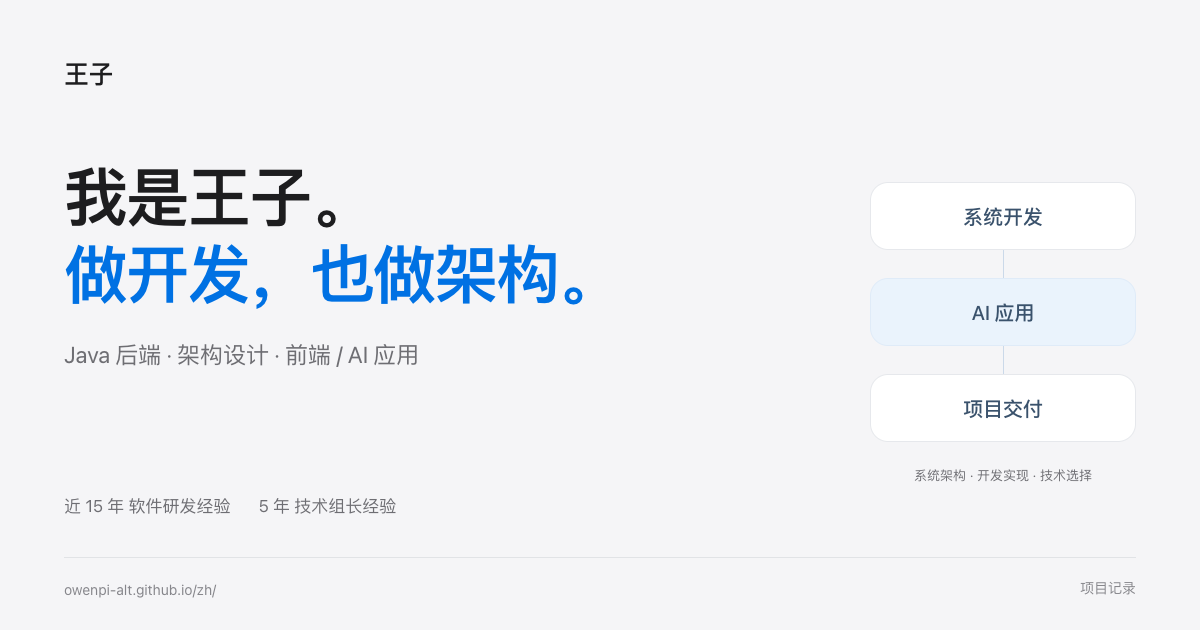
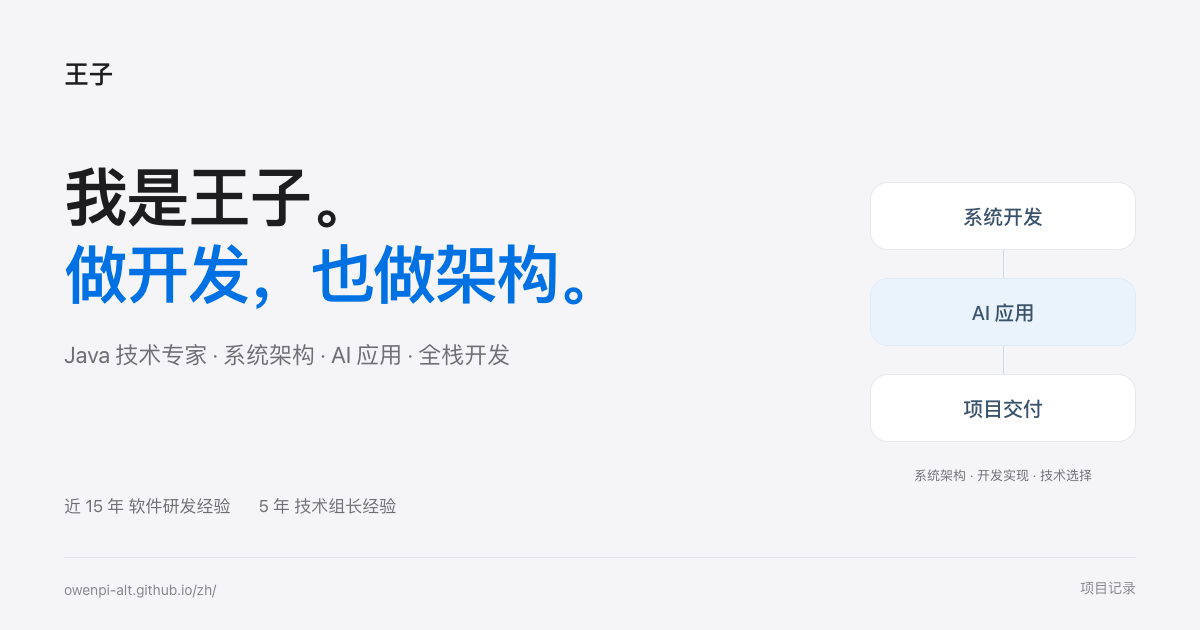
Strengthen recruiter-facing summary and improve crawlable portfolio navigation

Changed region(s): [[0.0925, 0.5429, 0.4317, 0.6032]]

diff --git a/en/index.html b/en/index.html
@@ -30,7 +30,7 @@
   <meta property="og:site_name" content="Wang Zi — Engineering Portfolio">
   <meta property="og:locale" content="en_US">
   <meta property="og:locale:alternate" content="zh_CN">
-  <meta property="og:image" content="https://owenpi-alt.github.io/assets/og-en-card.png?v=3dd26888b4e3">
+  <meta property="og:image" content="https://owenpi-alt.github.io/assets/og-en-card.png?v=a734cfd51e51">
   <meta property="og:image:type" content="image/png">
   <meta property="og:image:width" content="1200">
   <meta property="og:image:height" content="630">
@@ -38,10 +38,10 @@
   <meta name="twitter:card" content="summary_large_image">
   <meta name="twitter:title" content="Wang Zi | Senior Java Backend, Architecture &amp; AI">
   <meta name="twitter:description" content="Wang Zi has nearly 15 years in software and five years leading teams. His work includes microservice modernization, messaging and payment systems, JVM, SQL, Redis, Kafka and AI customer support.">
-  <meta name="twitter:image" content="https://owenpi-alt.github.io/assets/og-en-card.png?v=3dd26888b4e3">
+  <meta name="twitter:image" content="https://owenpi-alt.github.io/assets/og-en-card.png?v=a734cfd51e51">
   <meta name="twitter:image:alt" content="Wang Zi — Engineering Portfolio">
   <script type="application/ld+json">{"@context":"https://schema.org","@graph":[{"@type":"WebSite","@id":"https://owenpi-alt.github.io/#website","url":"https://owenpi-alt.github.io/","name":"Wang Zi — Engineering Portfolio","inLanguage":["zh-CN","en"],"publisher":{"@id":"https://owenpi-alt.github.io/#person"}},{"@type":"Person","@id":"https://owenpi-alt.github.io/#person","name":"Wang Zi","alternateName":"王子","url":"https://owenpi-alt.github.io/en/","email":"chuangzaoxingfuvip@gmail.com","sameAs":["https://github.com/OwenPi-alt"],"jobTitle":"Java Technical Expert & Full-Stack Developer","knowsAbout":["Java","System architecture","Microservices","Full-stack development","AI applications","RAG","AIGC workflows","Quantitative research tools"]},{"@type":"WebPage","@id":"https://owenpi-alt.github.io/en/#webpage","url":"https://owenpi-alt.github.io/en/","name":"Wang Zi | Senior Java Backend, Architecture & AI","description":"Wang Zi has nearly 15 years in software and five years leading teams. His work includes microservice modernization, messaging and payment systems, JVM, SQL, Redis, Kafka and AI customer support.","inLanguage":"en","isPartOf":{"@id":"https://owenpi-alt.github.io/#website"},"mainEntity":{"@id":"https://owenpi-alt.github.io/#person"}}]}</script>
-  <link rel="stylesheet" href="../workbench.css?v=973fbaa48c6c">
+  <link rel="stylesheet" href="../workbench.css?v=79ab063f2feb">
 </head>
 <body>
   <svg class="icon-library" xmlns="http://www.w3.org/2000/svg" aria-hidden="true"><defs>
@@ -66,10 +66,10 @@
     <section class="hero section-shell" id="home" aria-labelledby="hero-title">
       <div class="hero-copy">
         <p class="eyebrow"><span class="status-dot"></span> SOFTWARE ARCHITECTURE · FULL-STACK · AI</p>
-        <p class="intro"><strong>Java backend · Architecture</strong><span class="intro-line"></span><span class="intro-role">Frontend / AI applications</span></p>
+        <p class="intro"><strong>Java technical expert · Architecture · AI applications</strong><span class="intro-line"></span><span class="intro-role">Full-stack development</span></p>
         <h1 id="hero-title">I'm Wang Zi.<br><span>I build software and design systems.</span></h1>
         <p class="hero-description">I build Java backend systems, from architecture to core implementation. My work includes telemarketing modernization, messaging and payments, alongside contributions to AI customer support and business queries.</p><div class="hero-proofline"><span><strong>Nearly 15</strong><small>years in software</small></span><span><strong>5 years</strong><small>as a technical team lead</small></span><span><strong>About 8</strong><small>people on the team I led</small></span></div>
-        <div class="hero-actions"><a class="button button-primary" href="mailto:chuangzaoxingfuvip@gmail.com">Let's talk <svg class="icon"><use href="#i-arrow"/></svg></a><a class="button button-outline" href="#projects">Explore the projects <svg class="icon"><use href="#i-external"/></svg></a></div>
+        <div class="hero-actions"><a class="button button-primary" href="mailto:chuangzaoxingfuvip@gmail.com">Let's talk <svg class="icon"><use href="#i-arrow"/></svg></a><a class="button button-outline" href="#projects">Explore the projects <svg class="icon"><use href="#i-external"/></svg></a><a class="button button-outline" href="./resume.html" target="_blank" rel="noopener">View résumé ↗</a></div>
         <div class="hero-meta"><span><svg viewBox="0 0 16 16" aria-hidden="true"><path d="M13 6c0 4-5 8-5 8S3 10 3 6a5 5 0 0 1 10 0Z"/><circle cx="8" cy="6" r="1.5"/></svg>Shanghai · Remote collaboration</span><span class="meta-separator">/</span><span>Project development · Technical advice · Phased delivery</span></div>
       </div>
       <aside class="case-preview" aria-label="Explore project flows">

diff --git a/zh/index.html b/zh/index.html
@@ -28,7 +28,7 @@
   <meta property="og:site_name" content="王子的技术作品集">
   <meta property="og:locale" content="zh_CN">
   <meta property="og:locale:alternate" content="en_US">
-  <meta property="og:image" content="https://owenpi-alt.github.io/assets/og-card.png?v=39079f2a544d">
+  <meta property="og:image" content="https://owenpi-alt.github.io/assets/og-card.png?v=eed51bbacd40">
   <meta property="og:image:type" content="image/png">
   <meta property="og:image:width" content="1200">
   <meta property="og:image:height" content="630">
@@ -36,11 +36,11 @@
   <meta name="twitter:card" content="summary_large_image">
   <meta name="twitter:title" content="王子｜资深 Java 后端 · 系统架构 · AI 应用">
   <meta name="twitter:description" content="王子，近 15 年软件研发经验，5 年技术组长经验。主导微服务架构改造，负责营销触达与订单支付系统开发，实践 JVM、SQL、Redis、Kafka 与 AI 客服应用。">
-  <meta name="twitter:image" content="https://owenpi-alt.github.io/assets/og-card.png?v=39079f2a544d">
+  <meta name="twitter:image" content="https://owenpi-alt.github.io/assets/og-card.png?v=eed51bbacd40">
   <meta name="twitter:image:alt" content="王子的技术作品集">
   <script type="application/ld+json">{"@context":"https://schema.org","@graph":[{"@type":"WebSite","@id":"https://owenpi-alt.github.io/#website","url":"https://owenpi-alt.github.io/","name":"王子的技术作品集","inLanguage":["zh-CN","en"],"publisher":{"@id":"https://owenpi-alt.github.io/#person"}},{"@type":"Person","@id":"https://owenpi-alt.github.io/#person","name":"王子","alternateName":"Wang Zi","url":"https://owenpi-alt.github.io/zh/","email":"chuangzaoxingfuvip@gmail.com","sameAs":["https://github.com/OwenPi-alt"],"jobTitle":"Java 技术专家与全栈开发者","knowsAbout":["Java","系统架构","微服务","全栈开发","AI 应用","RAG","AIGC 工作流","量化研究工具"]},{"@type":"WebPage","@id":"https://owenpi-alt.github.io/zh/#webpage","url":"https://owenpi-alt.github.io/zh/","name":"王子｜资深 Java 后端 · 系统架构 · AI 应用","description":"王子，近 15 年软件研发经验，5 年技术组长经验。主导微服务架构改造，负责营销触达与订单支付系统开发，实践 JVM、SQL、Redis、Kafka 与 AI 客服应用。","inLanguage":"zh-CN","isPartOf":{"@id":"https://owenpi-alt.github.io/#website"},"mainEntity":{"@id":"https://owenpi-alt.github.io/#person"}}]}</script>
   <link rel="stylesheet" href="../bilingual.css?v=280c2246b661">
-  <link rel="stylesheet" href="../workbench.css?v=973fbaa48c6c">
+  <link rel="stylesheet" href="../workbench.css?v=79ab063f2feb">
 </head>
 <body>
   <svg class="icon-library" xmlns="http://www.w3.org/2000/svg" aria-hidden="true"><defs>
@@ -65,10 +65,10 @@
     <section class="hero section-shell" id="home" aria-labelledby="hero-title">
       <div class="hero-copy">
         <p class="eyebrow"><span class="status-dot"></span> SOFTWARE ARCHITECTURE · FULL-STACK · AI</p>
-        <p class="intro"><strong>Java 后端 · 架构设计</strong><span class="intro-line"></span><span class="intro-role">前端 / AI 应用</span></p>
+        <p class="intro"><strong>Java 技术专家 · 系统架构 · AI 应用</strong><span class="intro-line"></span><span class="intro-role">全栈开发</span></p>
         <h1 id="hero-title">我是王子。<br><span>做开发，也做架构。</span></h1>
         <p class="hero-description">专注 Java 后端与系统架构，负责电销系统改造、<br>营销触达和订单支付系统开发，<br>也参与 AI 客服与业务查询应用。</p><div class="hero-proofline"><span><strong>近 15 年</strong><small>软件研发经验</small></span><span><strong>5 年</strong><small>技术组长经验</small></span><span><strong>约 8 人</strong><small>曾带领的开发团队</small></span></div>
-        <div class="hero-actions"><a class="button button-primary" href="mailto:chuangzaoxingfuvip@gmail.com">聊聊合作 <svg class="icon"><use href="#i-arrow"/></svg></a><a class="button button-outline" href="#projects">看看做过的项目 <svg class="icon"><use href="#i-external"/></svg></a></div>
+        <div class="hero-actions"><a class="button button-primary" href="mailto:chuangzaoxingfuvip@gmail.com">聊聊合作 <svg class="icon"><use href="#i-arrow"/></svg></a><a class="button button-outline" href="#projects">看看做过的项目 <svg class="icon"><use href="#i-external"/></svg></a><a class="button button-outline" href="../resume.html" target="_blank" rel="noopener">查看简历 ↗</a></div>
         <div class="hero-meta"><span><svg viewBox="0 0 16 16" aria-hidden="true"><path d="M13 6c0 4-5 8-5 8S3 10 3 6a5 5 0 0 1 10 0Z"/><circle cx="8" cy="6" r="1.5"/></svg>上海 · 远程协作</span><span class="meta-separator">/</span><span>项目开发 · 技术顾问 · 阶段交付</span></div>
       </div>
       <aside class="case-preview" aria-label="查看项目流程">

diff --git a/index.html b/index.html
@@ -28,7 +28,7 @@
   <meta property="og:site_name" content="王子的技术作品集">
   <meta property="og:locale" content="zh_CN">
   <meta property="og:locale:alternate" content="en_US">
-  <meta property="og:image" content="https://owenpi-alt.github.io/assets/og-card.png?v=39079f2a544d">
+  <meta property="og:image" content="https://owenpi-alt.github.io/assets/og-card.png?v=eed51bbacd40">
   <meta property="og:image:type" content="image/png">
   <meta property="og:image:width" content="1200">
   <meta property="og:image:height" content="630">
@@ -36,11 +36,11 @@
   <meta name="twitter:card" content="summary_large_image">
   <meta name="twitter:title" content="王子｜资深 Java 后端 · 系统架构 · AI 应用">
   <meta name="twitter:description" content="王子，近 15 年软件研发经验，5 年技术组长经验。主导微服务架构改造，负责营销触达与订单支付系统开发，实践 JVM、SQL、Redis、Kafka 与 AI 客服应用。">
-  <meta name="twitter:image" content="https://owenpi-alt.github.io/assets/og-card.png?v=39079f2a544d">
+  <meta name="twitter:image" content="https://owenpi-alt.github.io/assets/og-card.png?v=eed51bbacd40">
   <meta name="twitter:image:alt" content="王子的技术作品集">
   <script type="application/ld+json">{"@context":"https://schema.org","@graph":[{"@type":"WebSite","@id":"https://owenpi-alt.github.io/#website","url":"https://owenpi-alt.github.io/","name":"王子的技术作品集","inLanguage":["zh-CN","en"],"publisher":{"@id":"https://owenpi-alt.github.io/#person"}},{"@type":"Person","@id":"https://owenpi-alt.github.io/#person","name":"王子","alternateName":"Wang Zi","url":"https://owenpi-alt.github.io/zh/","email":"chuangzaoxingfuvip@gmail.com","sameAs":["https://github.com/OwenPi-alt"],"jobTitle":"Java 技术专家与全栈开发者","knowsAbout":["Java","系统架构","微服务","全栈开发","AI 应用","RAG","AIGC 工作流","量化研究工具"]},{"@type":"WebPage","@id":"https://owenpi-alt.github.io/zh/#webpage","url":"https://owenpi-alt.github.io/zh/","name":"王子｜资深 Java 后端 · 系统架构 · AI 应用","description":"王子，近 15 年软件研发经验，5 年技术组长经验。主导微服务架构改造，负责营销触达与订单支付系统开发，实践 JVM、SQL、Redis、Kafka 与 AI 客服应用。","inLanguage":"zh-CN","isPartOf":{"@id":"https://owenpi-alt.github.io/#website"},"mainEntity":{"@id":"https://owenpi-alt.github.io/#person"}}]}</script>
   <link rel="stylesheet" href="./bilingual.css?v=280c2246b661">
-  <link rel="stylesheet" href="./workbench.css?v=973fbaa48c6c">
+  <link rel="stylesheet" href="./workbench.css?v=79ab063f2feb">
 </head>
 <body>
   <svg class="icon-library" xmlns="http://www.w3.org/2000/svg" aria-hidden="true"><defs>
@@ -65,10 +65,10 @@
     <section class="hero section-shell" id="home" aria-labelledby="hero-title">
       <div class="hero-copy">
         <p class="eyebrow"><span class="status-dot"></span> SOFTWARE ARCHITECTURE · FULL-STACK · AI</p>
-        <p class="intro"><strong>Java 后端 · 架构设计</strong><span class="intro-line"></span><span class="intro-role">前端 / AI 应用</span></p>
+        <p class="intro"><strong>Java 技术专家 · 系统架构 · AI 应用</strong><span class="intro-line"></span><span class="intro-role">全栈开发</span></p>
         <h1 id="hero-title">我是王子。<br><span>做开发，也做架构。</span></h1>
         <p class="hero-description">专注 Java 后端与系统架构，负责电销系统改造、<br>营销触达和订单支付系统开发，<br>也参与 AI 客服与业务查询应用。</p><div class="hero-proofline"><span><strong>近 15 年</strong><small>软件研发经验</small></span><span><strong>5 年</strong><small>技术组长经验</small></span><span><strong>约 8 人</strong><small>曾带领的开发团队</small></span></div>
-        <div class="hero-actions"><a class="button button-primary" href="mailto:chuangzaoxingfuvip@gmail.com">聊聊合作 <svg class="icon"><use href="#i-arrow"/></svg></a><a class="button button-outline" href="#projects">看看做过的项目 <svg class="icon"><use href="#i-external"/></svg></a></div>
+        <div class="hero-actions"><a class="button button-primary" href="mailto:chuangzaoxingfuvip@gmail.com">聊聊合作 <svg class="icon"><use href="#i-arrow"/></svg></a><a class="button button-outline" href="#projects">看看做过的项目 <svg class="icon"><use href="#i-external"/></svg></a><a class="button button-outline" href="./resume.html" target="_blank" rel="noopener">查看简历 ↗</a></div>
         <div class="hero-meta"><span><svg viewBox="0 0 16 16" aria-hidden="true"><path d="M13 6c0 4-5 8-5 8S3 10 3 6a5 5 0 0 1 10 0Z"/><circle cx="8" cy="6" r="1.5"/></svg>上海 · 远程协作</span><span class="meta-separator">/</span><span>项目开发 · 技术顾问 · 阶段交付</span></div>
       </div>
       <aside class="case-preview" aria-label="查看项目流程">

diff --git a/en/resume.html b/en/resume.html
@@ -102,7 +102,7 @@
   <meta property="og:site_name" content="Wang Zi — Engineering Portfolio">
   <meta property="og:locale" content="en_US">
   <meta property="og:locale:alternate" content="zh_CN">
-  <meta property="og:image" content="https://owenpi-alt.github.io/assets/og-en-card.png?v=3dd26888b4e3">
+  <meta property="og:image" content="https://owenpi-alt.github.io/assets/og-en-card.png?v=a734cfd51e51">
   <meta property="og:image:type" content="image/png">
   <meta property="og:image:width" content="1200">
   <meta property="og:image:height" content="630">
@@ -110,7 +110,7 @@
   <meta name="twitter:card" content="summary_large_image">
   <meta name="twitter:title" content="Wang Zi | Résumé — Java, Architecture &amp; Full-Stack Development">
   <meta name="twitter:description" content="Wang Zi's résumé: nearly 15 years in software, five years as a technical team lead, and experience in Java, architecture, full-stack development and AI.">
-  <meta name="twitter:image" content="https://owenpi-alt.github.io/assets/og-en-card.png?v=3dd26888b4e3">
+  <meta name="twitter:image" content="https://owenpi-alt.github.io/assets/og-en-card.png?v=a734cfd51e51">
   <meta name="twitter:image:alt" content="Wang Zi — Engineering Portfolio">
   <script type="application/ld+json">{"@context":"https://schema.org","@graph":[{"@type":"WebSite","@id":"https://owenpi-alt.github.io/#website","url":"https://owenpi-alt.github.io/","name":"Wang Zi — Engineering Portfolio","inLanguage":["zh-CN","en"],"publisher":{"@id":"https://owenpi-alt.github.io/#person"}},{"@type":"Person","@id":"https://owenpi-alt.github.io/#person","name":"Wang Zi","alternateName":"王子","url":"https://owenpi-alt.github.io/en/","email":"chuangzaoxingfuvip@gmail.com","sameAs":["https://github.com/OwenPi-alt"],"jobTitle":"Java Technical Expert & Full-Stack Developer","knowsAbout":["Java","System architecture","Microservices","Full-stack development","AI applications","RAG","Dify"]},{"@type":"ProfilePage","@id":"https://owenpi-alt.github.io/en/resume.html#webpage","url":"https://owenpi-alt.github.io/en/resume.html","name":"Wang Zi | Résumé — Java, Architecture & Full-Stack Development","description":"Wang Zi's résumé: nearly 15 years in software, five years as a technical team lead, and experience in Java, architecture, full-stack development and AI.","inLanguage":"en","isPartOf":{"@id":"https://owenpi-alt.github.io/#website"},"mainEntity":{"@id":"https://owenpi-alt.github.io/#person"}}]}</script>
 </head>
@@ -133,7 +133,7 @@
       </div>
     </header>
 
-    <p class="intro"><strong>Nearly 15 years in software development, including 5 years as a technical team lead.</strong> Experience includes Java business systems for telemarketing, messaging, orders and payments, alongside frontend development and contributions to AI applications. Led a team of around 8, with responsibility for task planning, code reviews, technical guidance, hiring and performance reviews.</p>
+    <p class="intro"><strong>Nearly 15 years in software development, including 5 years as a technical team lead.</strong> Led telemarketing microservice modernization and developed messaging, order and payment systems. Worked on asynchronous messaging, transaction idempotency, JVM, SQL and caching. Contributed to AI customer-service messaging and routing, and led a team of around 8.</p>
 
     <section aria-labelledby="skills-title">
       <h2 id="skills-title">Technical skills</h2>

diff --git a/resume.html b/resume.html
@@ -96,7 +96,7 @@
   <meta property="og:site_name" content="王子的技术作品集">
   <meta property="og:locale" content="zh_CN">
   <meta property="og:locale:alternate" content="en_US">
-  <meta property="og:image" content="https://owenpi-alt.github.io/assets/og-card.png?v=39079f2a544d">
+  <meta property="og:image" content="https://owenpi-alt.github.io/assets/og-card.png?v=eed51bbacd40">
   <meta property="og:image:type" content="image/png">
   <meta property="og:image:width" content="1200">
   <meta property="og:image:height" content="630">
@@ -104,7 +104,7 @@
   <meta name="twitter:card" content="summary_large_image">
   <meta name="twitter:title" content="王子的技术简历｜Java、系统架构与全栈开发">
   <meta name="twitter:description" content="王子公开技术简历：近 15 年软件研发、5 年技术组长经历，涵盖 Java 后端、系统架构、全栈开发、AI 客服与 Dify 工作流，支持打印及项目合作联系。">
-  <meta name="twitter:image" content="https://owenpi-alt.github.io/assets/og-card.png?v=39079f2a544d">
+  <meta name="twitter:image" content="https://owenpi-alt.github.io/assets/og-card.png?v=eed51bbacd40">
   <meta name="twitter:image:alt" content="王子的技术作品集">
   <script type="application/ld+json">{"@context":"https://schema.org","@graph":[{"@type":"WebSite","@id":"https://owenpi-alt.github.io/#website","url":"https://owenpi-alt.github.io/","name":"王子的技术作品集","inLanguage":["zh-CN","en"],"publisher":{"@id":"https://owenpi-alt.github.io/#person"}},{"@type":"Person","@id":"https://owenpi-alt.github.io/#person","name":"王子","alternateName":"Wang Zi","url":"https://owenpi-alt.github.io/zh/","email":"chuangzaoxingfuvip@gmail.com","sameAs":["https://github.com/OwenPi-alt"],"jobTitle":"Java 技术专家与全栈开发者","knowsAbout":["Java","系统架构","微服务","全栈开发","AI 应用","RAG","Dify"]},{"@type":"ProfilePage","@id":"https://owenpi-alt.github.io/resume.html#webpage","url":"https://owenpi-alt.github.io/resume.html","name":"王子的技术简历｜Java、系统架构与全栈开发","description":"王子公开技术简历：近 15 年软件研发、5 年技术组长经历，涵盖 Java 后端、系统架构、全栈开发、AI 客服与 Dify 工作流，支持打印及项目合作联系。","inLanguage":"zh-CN","isPartOf":{"@id":"https://owenpi-alt.github.io/#website"},"mainEntity":{"@id":"https://owenpi-alt.github.io/#person"}}]}</script>
   <link rel="stylesheet" href="./bilingual.css?v=280c2246b661">
@@ -128,7 +128,7 @@
       </div>
     </header>
 
-    <p class="intro"><strong>近 15 年软件研发经验，5 年技术组长经验。</strong>主要做 Java 业务系统，负责过电销架构改造、营销触达和订单支付，也做前端、参与 AI 应用。带领过约 8 人团队，承担任务分工、代码评审、技术指导、招聘与绩效工作。</p>
+    <p class="intro"><strong>近 15 年软件研发经验，5 年技术组长经验。</strong>主导电销系统微服务改造，负责营销触达和订单支付开发；处理异步消息、交易幂等及 JVM、SQL、缓存优化。参与 AI 客服消息与路由开发，带领约 8 人团队推进交付。</p>
 
     <section aria-labelledby="skills-title">
       <h2 id="skills-title">技术栈</h2>

diff --git a/projects/index.html b/projects/index.html
@@ -17,20 +17,20 @@
   <meta property="og:title" content="项目案例与技术实践 | 王子">
   <meta property="og:description" content="王子的项目案例与技术实践：餐饮订单与支付、电销架构、营销触达、AI 客服、Dify 运营问答，以及 AIGC 工作流与量化研究。介绍问题背景、技术选择、具体实现与职责。">
   <meta property="og:url" content="https://owenpi-alt.github.io/projects/">
-  <meta property="og:image" content="https://owenpi-alt.github.io/assets/og-card.png?v=39079f2a544d">
+  <meta property="og:image" content="https://owenpi-alt.github.io/assets/og-card.png?v=eed51bbacd40">
   <meta property="og:image:width" content="1200">
   <meta property="og:image:height" content="630">
   <meta property="og:image:alt" content="王子的技术作品集">
   <meta name="twitter:card" content="summary_large_image">
   <meta name="twitter:title" content="项目案例与技术实践 | 王子">
   <meta name="twitter:description" content="王子的项目案例与技术实践：餐饮订单与支付、电销架构、营销触达、AI 客服、Dify 运营问答，以及 AIGC 工作流与量化研究。介绍问题背景、技术选择、具体实现与职责。">
-  <meta name="twitter:image" content="https://owenpi-alt.github.io/assets/og-card.png?v=39079f2a544d">
+  <meta name="twitter:image" content="https://owenpi-alt.github.io/assets/og-card.png?v=eed51bbacd40">
   <meta name="twitter:image:alt" content="王子的技术作品集">
   <link rel="icon" type="image/svg+xml" href="../assets/favicon.svg">
   <link rel="stylesheet" href="../styles.css?v=9fdc5794d01e">
   <link rel="stylesheet" href="../seo-pages.css?v=73f137b2ef8d">
   <link rel="stylesheet" href="../bilingual.css?v=280c2246b661">
-  <link rel="stylesheet" href="../workbench.css?v=973fbaa48c6c">
+  <link rel="stylesheet" href="../workbench.css?v=79ab063f2feb">
   <script src="../language-preference.js?v=378e2a6a7373" defer></script>
   <script type="application/ld+json">{
   "@context": "https://schema.org",
@@ -44,7 +44,7 @@
       "url": "https://owenpi-alt.github.io/projects/",
       "image": {
         "@type": "ImageObject",
-        "url": "https://owenpi-alt.github.io/assets/og-card.png?v=39079f2a544d",
+        "url": "https://owenpi-alt.github.io/assets/og-card.png?v=eed51bbacd40",
         "width": 1200,
         "height": 630
       },

diff --git a/en/projects/index.html b/en/projects/index.html
@@ -17,20 +17,20 @@
   <meta property="og:title" content="Projects and Engineering Details | Wang Zi">
   <meta property="og:description" content="Seven case studies in Java architecture, business systems, AI workflows and quantitative research, covering technologies, design decisions, implementation and responsibilities.">
   <meta property="og:url" content="https://owenpi-alt.github.io/en/projects/">
-  <meta property="og:image" content="https://owenpi-alt.github.io/assets/og-en-card.png?v=3dd26888b4e3">
+  <meta property="og:image" content="https://owenpi-alt.github.io/assets/og-en-card.png?v=a734cfd51e51">
   <meta property="og:image:width" content="1200">
   <meta property="og:image:height" content="630">
   <meta property="og:image:alt" content="Wang Zi — Software Engineering Portfolio">
   <meta name="twitter:card" content="summary_large_image">
   <meta name="twitter:title" content="Projects and Engineering Details | Wang Zi">
   <meta name="twitter:description" content="Seven case studies in Java architecture, business systems, AI workflows and quantitative research, covering technologies, design decisions, implementation and responsibilities.">
-  <meta name="twitter:image" content="https://owenpi-alt.github.io/assets/og-en-card.png?v=3dd26888b4e3">
+  <meta name="twitter:image" content="https://owenpi-alt.github.io/assets/og-en-card.png?v=a734cfd51e51">
   <meta name="twitter:image:alt" content="Wang Zi — Software Engineering Portfolio">
   <link rel="icon" type="image/svg+xml" href="../../assets/favicon.svg">
   <link rel="stylesheet" href="../../styles.css?v=9fdc5794d01e">
   <link rel="stylesheet" href="../../seo-pages.css?v=73f137b2ef8d">
   <link rel="stylesheet" href="../../bilingual.css?v=280c2246b661">
-  <link rel="stylesheet" href="../../workbench.css?v=973fbaa48c6c">
+  <link rel="stylesheet" href="../../workbench.css?v=79ab063f2feb">
   <script src="../../language-preference.js?v=378e2a6a7373" defer></script>
   <script type="application/ld+json">{
   "@context": "https://schema.org",
@@ -44,7 +44,7 @@
       "url": "https://owenpi-alt.github.io/en/projects/",
       "image": {
         "@type": "ImageObject",
-        "url": "https://owenpi-alt.github.io/assets/og-en-card.png?v=3dd26888b4e3",
+        "url": "https://owenpi-alt.github.io/assets/og-en-card.png?v=a734cfd51e51",
         "width": 1200,
         "height": 630
       },

diff --git a/workbench.css b/workbench.css
@@ -62,7 +62,7 @@
   .hero h1, html[lang='en'] .hero h1 { margin: 0; font-size: clamp(48px, 5.5vw, 76px); line-height: 1.18; font-weight: 650; letter-spacing: -3px; white-space: normal; text-wrap: balance; }
   .hero h1 > span { color: #68686e; text-shadow: none; }
   .hero-description, html[lang='en'] .hero-description { max-width: 740px; margin-top: 26px; font-size: 19px; line-height: 1.8; color: #636369; letter-spacing: 0; text-wrap: pretty; }
-  .hero-actions { order: 2; margin-top: 28px; gap: 8px; justify-content: center; }
+  .hero-actions { order: 2; margin-top: 28px; gap: 8px; justify-content: center; flex-wrap: wrap; }
   .hero-proofline, html[lang='en'] .hero-proofline { order: 3; display: flex; justify-content: center; gap: 0; margin-top: 40px; max-width: none; width: auto; border: 0; padding: 0; }
   .hero-proofline > span { padding: 0 32px; text-align: center; }
   .hero-proofline > span + span { padding-left: 32px; border-left: 1px solid var(--line); }

diff --git a/en/projects/ai-customer-service-rag/index.html b/en/projects/ai-customer-service-rag/index.html
@@ -30,7 +30,7 @@
   <link rel="stylesheet" href="../../../styles.css?v=9fdc5794d01e">
   <link rel="stylesheet" href="../../../seo-pages.css?v=73f137b2ef8d">
   <link rel="stylesheet" href="../../../bilingual.css?v=280c2246b661">
-  <link rel="stylesheet" href="../../../workbench.css?v=973fbaa48c6c">
+  <link rel="stylesheet" href="../../../workbench.css?v=79ab063f2feb">
   <script src="../../../language-preference.js?v=378e2a6a7373" defer></script>
   <script type="application/ld+json">{
   "@context": "https://schema.org",

diff --git a/en/projects/aigc-production-workflow/index.html b/en/projects/aigc-production-workflow/index.html
@@ -30,7 +30,7 @@
   <link rel="stylesheet" href="../../../styles.css?v=9fdc5794d01e">
   <link rel="stylesheet" href="../../../seo-pages.css?v=73f137b2ef8d">
   <link rel="stylesheet" href="../../../bilingual.css?v=280c2246b661">
-  <link rel="stylesheet" href="../../../workbench.css?v=973fbaa48c6c">
+  <link rel="stylesheet" href="../../../workbench.css?v=79ab063f2feb">
   <script src="../../../language-preference.js?v=378e2a6a7373" defer></script>
   <script type="application/ld+json">{
   "@context": "https://schema.org",

diff --git a/en/projects/dify-operations-assistant/index.html b/en/projects/dify-operations-assistant/index.html
@@ -30,7 +30,7 @@
   <link rel="stylesheet" href="../../../styles.css?v=9fdc5794d01e">
   <link rel="stylesheet" href="../../../seo-pages.css?v=73f137b2ef8d">
   <link rel="stylesheet" href="../../../bilingual.css?v=280c2246b661">
-  <link rel="stylesheet" href="../../../workbench.css?v=973fbaa48c6c">
+  <link rel="stylesheet" href="../../../workbench.css?v=79ab063f2feb">
   <script src="../../../language-preference.js?v=378e2a6a7373" defer></script>
   <script type="application/ld+json">{
   "@context": "https://schema.org",

diff --git a/en/projects/java-telemarketing-architecture/index.html b/en/projects/java-telemarketing-architecture/index.html
@@ -30,7 +30,7 @@
   <link rel="stylesheet" href="../../../styles.css?v=9fdc5794d01e">
   <link rel="stylesheet" href="../../../seo-pages.css?v=73f137b2ef8d">
   <link rel="stylesheet" href="../../../bilingual.css?v=280c2246b661">
-  <link rel="stylesheet" href="../../../workbench.css?v=973fbaa48c6c">
+  <link rel="stylesheet" href="../../../workbench.css?v=79ab063f2feb">
   <script src="../../../language-preference.js?v=378e2a6a7373" defer></script>
   <script type="application/ld+json">{
   "@context": "https://schema.org",
